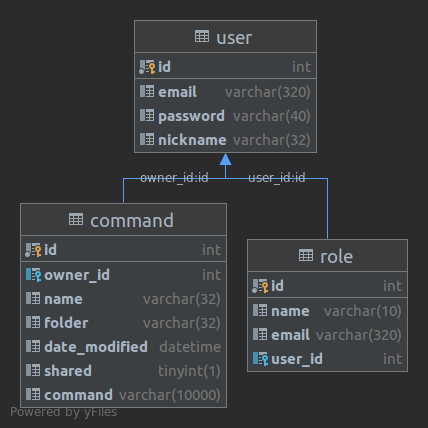
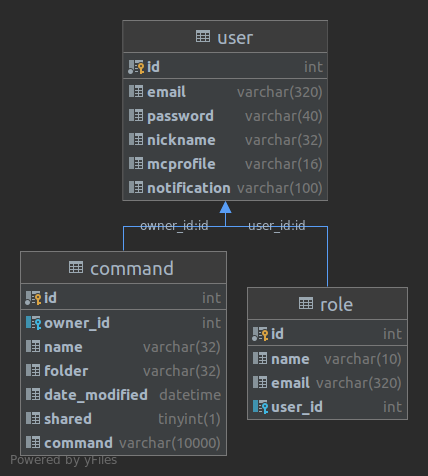
Add new notification and mcprofile data to user table Update User entity and cleandb script accordingly

diff --git a/src/main/java/com/pjcraig/entity/User.java b/src/main/java/com/pjcraig/entity/User.java
@@ -28,8 +28,13 @@ public class User {
     private int id;
     private String email;
     private String password;
+    @Column(name="notification")
+    private String message;
     @Expose
     private String nickname;
+    @Expose
+    @Column(name="mcprofile")
+    private String minecraftProfile;
 
     @OneToMany(mappedBy = "user", cascade = CascadeType.ALL, orphanRemoval = true, fetch = FetchType.EAGER)
     private Set<Role> roles = new HashSet<>();
@@ -161,8 +166,44 @@ public class User {
      *
      * @param roles the list of roles
      */
-    public void setRole(Set<Role> roles) {
+    public void setRoles(Set<Role> roles) {
         this.roles = roles;
+    }
+
+    /**
+     * Gets message.
+     *
+     * @return the message
+     */
+    public String getMessage() {
+        return message;
+    }
+
+    /**
+     * Sets message.
+     *
+     * @param message the message
+     */
+    public void setMessage(String message) {
+        this.message = message;
+    }
+
+    /**
+     * Gets minecraft profile.
+     *
+     * @return the minecraft profile
+     */
+    public String getMinecraftProfile() {
+        return minecraftProfile;
+    }
+
+    /**
+     * Sets minecraft profile.
+     *
+     * @param minecraftProfile the minecraft profile
+     */
+    public void setMinecraftProfile(String minecraftProfile) {
+        this.minecraftProfile = minecraftProfile;
     }
 
     /**
